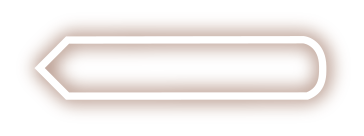
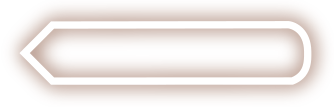
almost working 60%

diff --git a/core/src/com/denis/game/WorldRenderer.java b/core/src/com/denis/game/WorldRenderer.java
@@ -1,8 +1,10 @@
 package com.denis.game;
 
+import com.badlogic.gdx.graphics.Color;
 import com.badlogic.gdx.graphics.OrthographicCamera;
 import com.badlogic.gdx.graphics.g2d.SpriteBatch;
 import com.badlogic.gdx.graphics.g2d.TextureRegion;
+import com.badlogic.gdx.graphics.glutils.ShapeRenderer;
 import com.denis.game.objects.Air;
 import com.denis.game.objects.Blender;
 import com.denis.game.objects.Fan;
@@ -129,14 +131,24 @@ public class WorldRenderer {
         if( world.percent > 0) {
             float part = ((float) world.percent) / 100;
 
-            int start = 275 - ((int) (Assets.indicatorFull.getWidth() * part));
+            int lotalLength = Assets.indicatorFull.getWidth();
 
-            TextureRegion indicatorRegion = new TextureRegion(Assets.indicatorFull, start, 0, 275, 55);
-            float width = Indicator.INDICATOR_WIDTH*0.8f;
+            int start = lotalLength - ((int) (lotalLength * part));
+
+            TextureRegion indicatorRegion = new TextureRegion(Assets.indicatorFull, start, 0, lotalLength - start, 55);
+            float width = Indicator.INDICATOR_WIDTH*0.82f;
             float image_width = width*part;
             batch.draw(indicatorRegion, world.indicator.position.x - width / 2 + width * (1f - part),
-                    world.indicator.position.y - Indicator.INDICATOR_HEIGHT / 2 + 0.65f,
-                    Indicator.INDICATOR_WIDTH*part, Indicator.INDICATOR_HEIGHT * 0.36f + 0.05f);
+                    world.indicator.position.y - Indicator.INDICATOR_HEIGHT / 3f + 0.15f,
+                    width*part, Indicator.INDICATOR_HEIGHT/2);
+
+            /*ShapeRenderer shapeRenderer = new ShapeRenderer();
+            shapeRenderer.setProjectionMatrix(batch.getProjectionMatrix());
+            shapeRenderer.begin(ShapeRenderer.ShapeType.Line);
+            shapeRenderer.setColor(Color.BLACK);
+            shapeRenderer.rect( world.indicator.position.x - Indicator.INDICATOR_WIDTH / 2,
+                                world.indicator.position.y - Indicator.INDICATOR_HEIGHT / 2, Indicator.INDICATOR_WIDTH, Indicator.INDICATOR_HEIGHT);
+            shapeRenderer.end();*/
         }
 
         batch.draw( Assets.indicatorEmptyRegion, world.indicator.position.x - Indicator.INDICATOR_WIDTH / 2, world.indicator.position.y - Indicator.INDICATOR_HEIGHT/2,
@@ -173,7 +185,13 @@ public class WorldRenderer {
                     }
                 } else if (obj instanceof Lamp) {
                     if(obj.broken) {
-                        batch.draw(Assets.brokenLampRegion, obj.position.x - Lamp.LAMP_WIDTH / 2 - 0.2f, obj.position.y - 0.6f * Lamp.LAMP_HEIGHT + 0.55f,
+                        /*ShapeRenderer shapeRenderer = new ShapeRenderer();
+                        shapeRenderer.setProjectionMatrix(batch.getProjectionMatrix());
+                        shapeRenderer.begin(ShapeRenderer.ShapeType.Line);
+                        shapeRenderer.setColor(Color.BLACK);
+                        shapeRenderer.rect( obj.position.x - Lamp.LAMP_WIDTH / 2 - 0.35f, obj.position.y - Lamp.LAMP_HEIGHT / 2 - 0.3f, Lamp.LAMP_WIDTH, Lamp.LAMP_HEIGHT);
+                        shapeRenderer.end();*/
+                        batch.draw(Assets.brokenLampRegion, obj.position.x - Lamp.LAMP_WIDTH / 2 - 0.35f, obj.position.y - Lamp.LAMP_HEIGHT / 2 - 0.3f,
                                 Lamp.LAMP_WIDTH, Lamp.LAMP_HEIGHT);
                     }
                 } else if (obj instanceof Switch) {

diff --git a/core/src/com/denis/game/GameScreen.java b/core/src/com/denis/game/GameScreen.java
@@ -71,16 +71,13 @@ public class GameScreen  extends ScreenAdapter {
                     if (world.lightning.visible) {
                         succeded += 1;
 
-                        Assets.pointMusic.setVolume(0.5f);
+                        Assets.pointMusic.setVolume(0.3f);
                         Assets.pointMusic.play();
 
-                        if(succeded <= 5) {
+                        if(succeded <= 20) {
                             world.score += world.curScore;
-                            world.percent += 20;
+                            world.percent += 5;
                         }
-
-                        if(world.percent == 100)
-                            world.percent = 90;
 
                         world.addflyingScore(touchPointTr);
                     }
@@ -89,7 +86,7 @@ public class GameScreen  extends ScreenAdapter {
                     world.lightningTime = 0;
                     Assets.lightningMusic.stop();
 
-                    if (succeded >= 5) {
+                    if (succeded >= 20) {
                         world.stop();
 
                         if(world.level == 4) {
@@ -120,13 +117,13 @@ public class GameScreen  extends ScreenAdapter {
                 endGameInterval = 0;
 
                 if (gameover && !win) {
+                    world.curScore = 100;
                     game.setScreen(new GameoverScreen(game));
                 }
                 else if(gameover && win){
                     game.setScreen(new WinScreen(game));
                 }
                 else {
-                    world.curScore = 100;
                     world.setLevel(world.level + 1);
                     win = false;
                 }

diff --git a/core/src/com/denis/game/GameWorld.java b/core/src/com/denis/game/GameWorld.java
@@ -46,9 +46,9 @@ public class GameWorld {
     public Array<ScoreOut> flyingScores = new Array<ScoreOut>();
     int [] boomIndexes = new int [] { -1, -1, -1 };
 
-    public final float lightningSpawnInterval = 6f;
-    public final float lightningMaxInterval = 3f;
-    public float curSpawnInterval = 2.0f;
+    public final float lightningSpawnInterval = 4f;
+    public final float lightningMaxInterval = 2f;
+    public float curSpawnInterval = 1.0f;
     final Random random = new Random();
 
     float lightningTime = 0f;
@@ -77,8 +77,10 @@ public class GameWorld {
             addBrokenObject(i);
         }*/
 
-        stop();
-        percent = 50;
+        //addBrokenObject(6);
+
+        //stop();
+        //percent = 30;
 
         //ScoreOut sout = new ScoreOut( spawnCoords[0].x, spawnCoords[0].y, curScore);
         //flyingScores.add(sout);
@@ -324,6 +326,5 @@ public class GameWorld {
         update = true;
         lifes = 3;
         percent = 0;
-        score = 100;
     }
 }

diff --git a/core/src/com/denis/game/Assets.java b/core/src/com/denis/game/Assets.java
@@ -494,7 +494,7 @@ public class Assets {
         brokenKettleRegion = new TextureRegion(brokenKettle, 0, 0, 72, 113);
 
         brokenLamp = loadTexture("room1/broken/lamp.png");
-        brokenLampRegion = new TextureRegion(brokenLamp, 0, 0, 223, 680);
+        brokenLampRegion = new TextureRegion(brokenLamp, 0, 0, 196, 680);
 
         brokenMicrovawe = loadTexture("room1/broken/microwave.png");
         brokenMicrovaweRegion = new TextureRegion(brokenMicrovawe, 0, 0, 190, 202);
@@ -629,7 +629,7 @@ public class Assets {
         brokenSwitch4Region =  new TextureRegion(brokenSwitch4, 0, 0, 44, 66);
 
         indicatorEmpty =    loadTexture("power_border.png");
-        indicatorEmptyRegion = new TextureRegion(indicatorEmpty, 0, 0, 364, 136);
+        indicatorEmptyRegion = new TextureRegion(indicatorEmpty, 0, 0, 334, 107);
 
         indicatorFull =    loadTexture("power.png");
         indicatorFullRegion =  new TextureRegion(indicatorFull, 0, 0, 275, 55);

diff --git a/core/src/com/denis/game/objects/Indicator.java b/core/src/com/denis/game/objects/Indicator.java
@@ -6,8 +6,8 @@ import com.denis.game.GameObject;
  * Created by loki on 26.06.16.
  */
 public class Indicator extends GameObject {
-    public static final float INDICATOR_WIDTH = 5.0f;
-    public static final float INDICATOR_HEIGHT = 2.0f;
+    public static final float INDICATOR_WIDTH = 4.3f;
+    public static final float INDICATOR_HEIGHT = 1.1f;
 
     public Indicator(float x, float y) {
         super(x, y, INDICATOR_WIDTH, INDICATOR_HEIGHT);

diff --git a/core/src/com/denis/game/objects/Lamp.java b/core/src/com/denis/game/objects/Lamp.java
@@ -6,8 +6,8 @@ import com.denis.game.GameObject;
  * Created by loki on 21.06.16.
  */
 public class Lamp extends GameObject {
-    public static final float LAMP_WIDTH = 2.4f;
-    public static final float LAMP_HEIGHT = 9.5f;
+    public static final float LAMP_WIDTH = 2.1f;
+    public static final float LAMP_HEIGHT = 10f;
 
     public Lamp(float x, float y) {
         super(x, y, LAMP_WIDTH, LAMP_HEIGHT);

diff --git a/core/src/com/denis/game/DenisGame.java b/core/src/com/denis/game/DenisGame.java
@@ -16,6 +16,7 @@ public class DenisGame extends Game {
 		Assets.roomMusic.play();
 
 		setScreen(new StartScreen(this));
+		//setScreen(new GameScreen(this));
 	}
 
 	@Override
